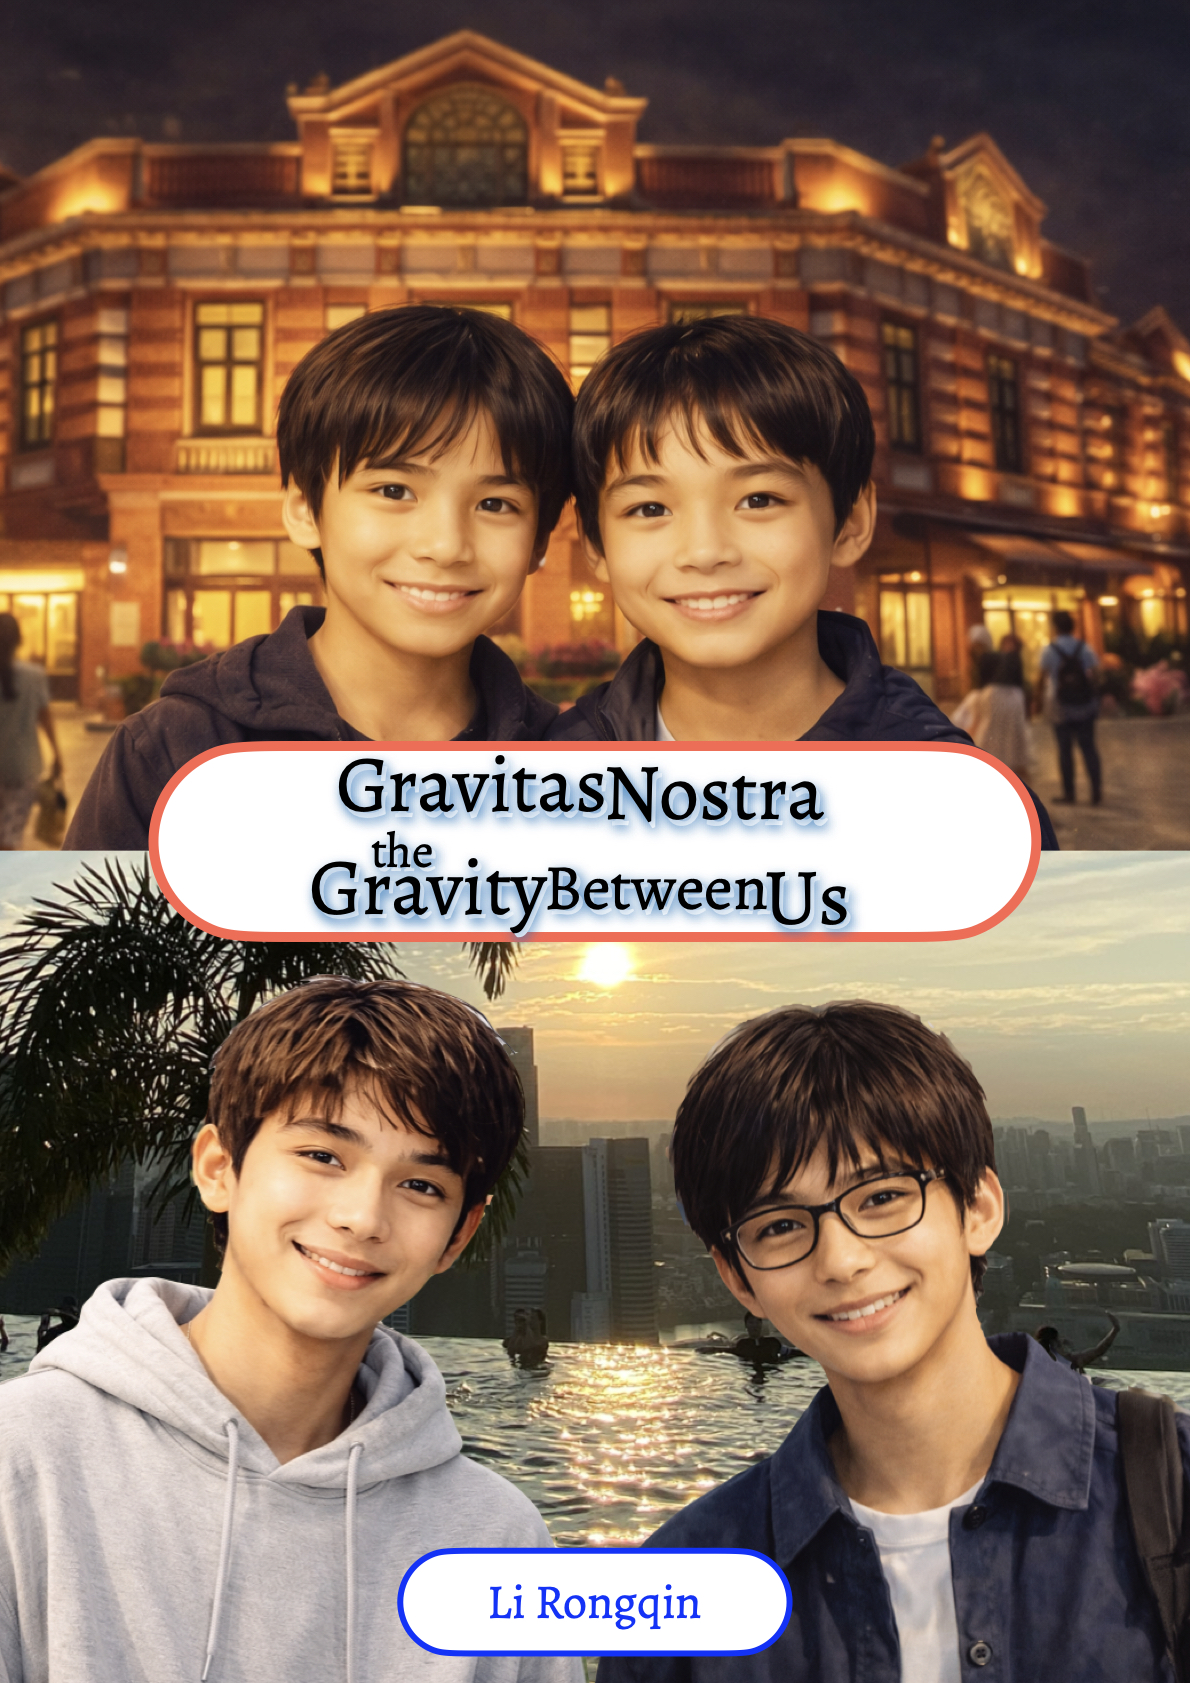
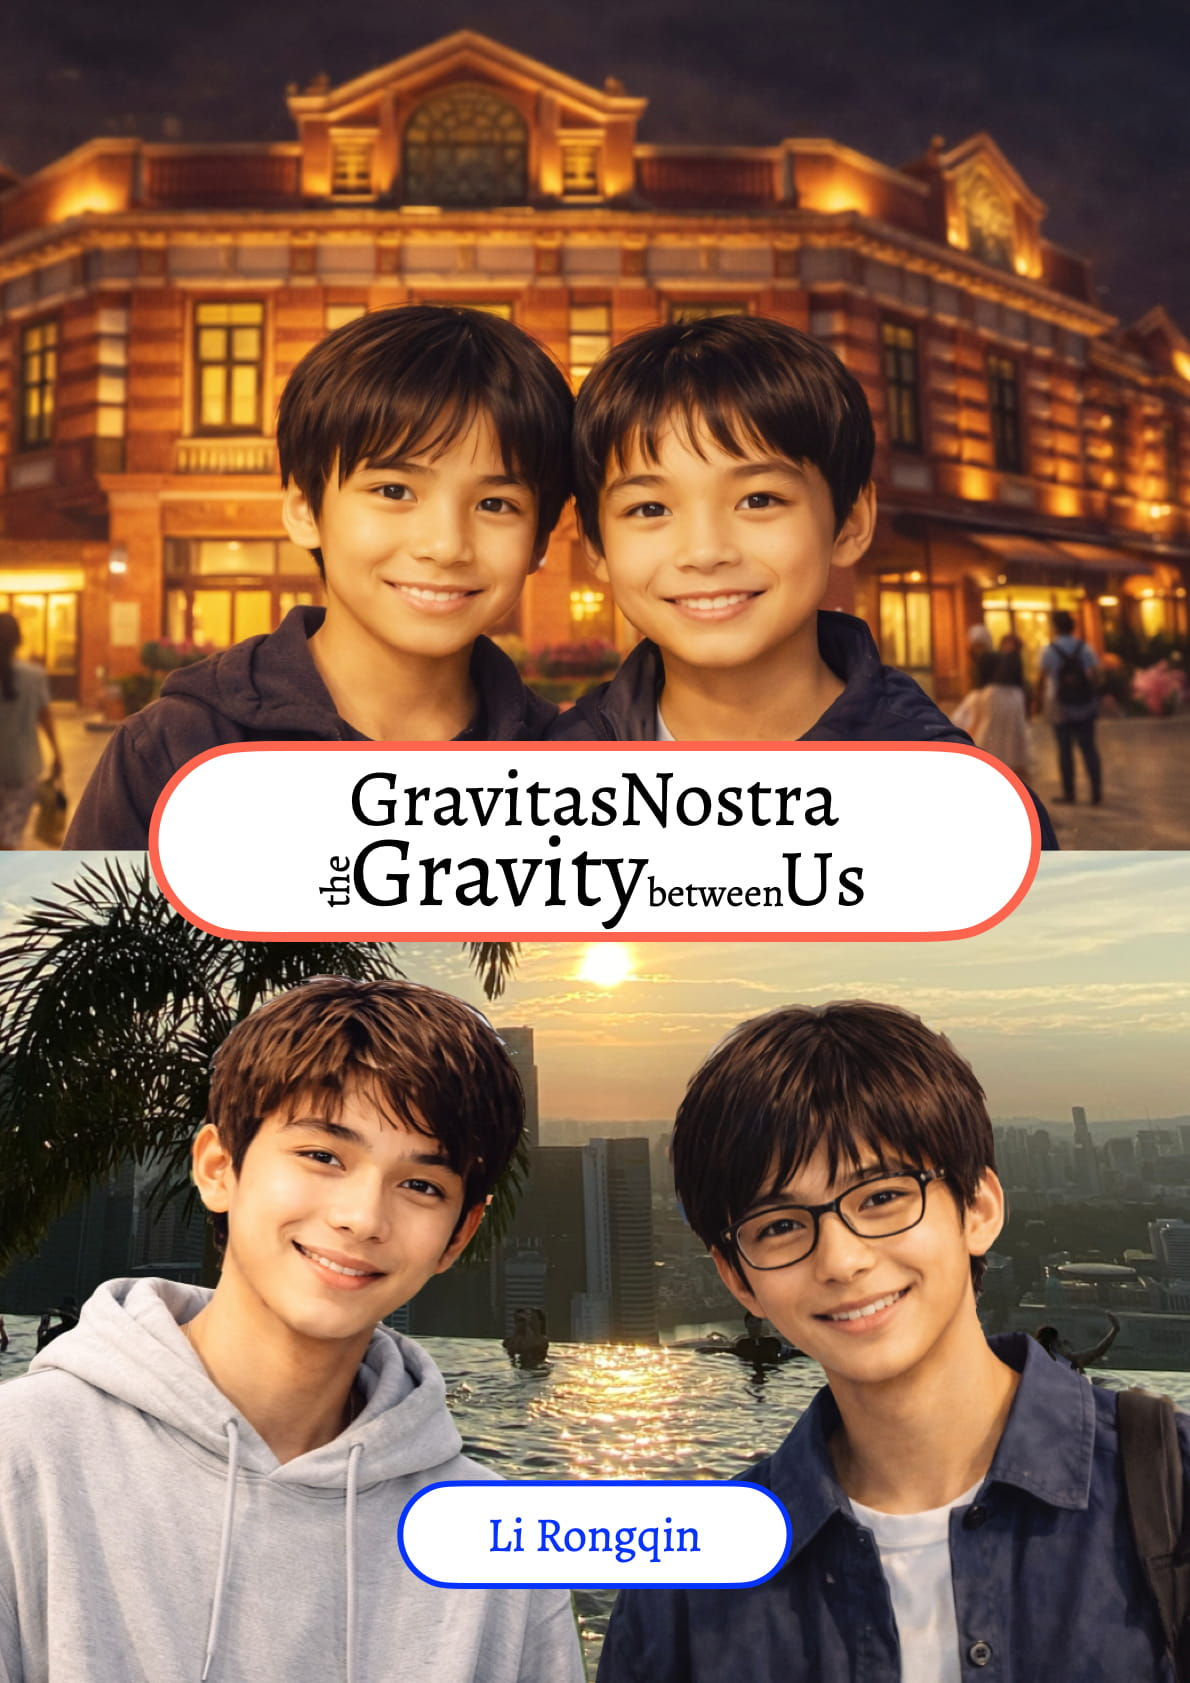
chapters update

diff --git a/chapters/gravitas-nostra-th/chapter-28.md b/chapters/gravitas-nostra-th/chapter-28.md
@@ -1,5 +1,9 @@
 ## 「 28. Research, Rivalry, and Regret 」
 
+### CHAPTER TWENTY-EIGHT
+
+#### Research, Rivalry, and Regret
+
 กันต์:
 
 “Ma kasih, pak. (ขอบใจมาก)” เฮียเอ่ยขอบคุณอาดี้ที่วิ่งไปที่ตู้ขายน้ำนอกห้องนั่งเล่นรวมของหอซื้อชามะนาวมาให้พวกผม ส่วนผมที่ยังจำภาษาอินโดนีเซียไม่ได้ ก็ได้แต่เอ่ยขอบคุณเป็นภาษาอังกฤษธรรมดาไป เฮียผมนี่เก่งนะ ถึงแม้ว่าจะเป็นซึมเศร้า แต่ว่าเขาก็ปรับตัวอะไรหลายๆ อย่างได้ไว ถึงแม้ว่าเขาจะไม่ได้เรียนภาษาต่างๆ อย่างเป็นกิจจะลักษณะ ไม่ได้สื่อสารรู้เรื่องอะไร แต่อย่างน้อย เขาก็จำศัพท์สำคัญๆ อย่างสวัสดี ขอบคุณ ขอโทษ และลาก่อนได้ในหลายๆ ภาษา จะมีก็ญี่ปุ่นที่พูดได้ดีเพราะชอบอนิเมะมาตั้งแต่เด็ก และเยอรมัน ที่เคยใช้พูดกับเจน

diff --git a/chapters/gravitas-nostra-th/chapter-30.md b/chapters/gravitas-nostra-th/chapter-30.md
@@ -1,5 +1,9 @@
 ## 「 30. Search, Search, and Search 」
 
+### CHAPTER THIRTY
+
+#### Search, Search, and Search
+
 ชุน:
 
 ดีนเริ่มมูฟออนได้ ตอนนี้ ครอบครัวที่เขาเหลือก็แทบไม่มีใครอยากคุยกับเขาแล้ว โดยเฉพาะครอบครัวฝั่งพ่อ เพราะเขาเป็นผู้ทรยศ หันหลังให้กับครอบครัว ซึ่งเขาก็ไม่ได้สนใจอะไรมากนัก เขาแค่รับส่วนแบ่งมรดกจากพ่อมา และเริ่มต้นทำงานหาเงินด้วยตัวเองด้วยการไปสมัครงานที่ร้านอาหารภายในมหาวิทยาลัย แถมยังมาขอไอเดียเปิดช่องในยูทูบบ่อยๆ อีกด้วย ท่าทางจะอยากดังแบบผมให้ได้สักวัน ส่วนแม่ของเขาก็บอกแค่ว่าจะจ่ายค่าเรียนให้จนจบ เพราะเงินค่าเรียนปริญญาตรีพ่อแม่เขาเตรียมให้ตั้งแต่ต้นอยู่แล้ว

diff --git a/chapters/gravitas-nostra-th/chapter-26.md b/chapters/gravitas-nostra-th/chapter-26.md
@@ -1,5 +1,9 @@
 ## 「 26. Denial, Discovery, and Desire 」
 
+### CHAPTER TWENTY-SIX
+
+#### Denial, Discovery, and Desire
+
 โฮเซ่:
 
 ผมกับเรย์ก็ได้แต่มองหน้ากัน ทำตาปริบๆ เมื่อชุนรีบคว้ากระเป๋าแล้วตรงดิ่งไปหาน้องชายของมันทันที เพราะเมื่อครู่นี้ เขาได้รับข้อความจากกันต์ว่าเจอร์รี่ไปตวาดใส่กันต์ในคณะ และเคฟก็อยู่ด้วย ที่แน่ๆ ก็คือเจย์น่าจะจำได้ว่ากันต์เป็นคนขู่เขาที่ภูเก็ตเรื่องขโมยข้อสอบ และชุมชนนักศึกษาจีนที่ไม่ยอมเข้าเรียนในอิ๋งหั่วก็ดูท่าทางจะโดนกวาดล้าง มีเจ้าหน้าที่สมัครเข้าไป ปลอมตัวเป็นนักศึกษา และเก็บรายละเอียดออกมาทั้งหมดเพื่อทำการตรวจสอบและลงโทษนักศึกษาเหล่านั้นต่อไป  

diff --git a/chapters/gravitas-nostra-th/chapter-24.md b/chapters/gravitas-nostra-th/chapter-24.md
@@ -1,5 +1,9 @@
 ## 「 24. Proof, Paper, and Pride 」
 
+### CHAPTER TWENTY-FOUR
+
+#### Proof, Paper, and Pride
+
 เคฟ:
 
 หลังจากไลฟ์จบลงไม่กี่ชั่วโมง กระแสในโซเชียลก็แตกออกเป็นสองฝั่งอย่างชัดเจน ฝั่งหนึ่งคือแฟนคลับของชุนที่เริ่มขุดรากถอนโคนพฤติกรรมในอดีตของคู่หูเจเจมาประจาน จนชุนต้องรีบออกมาโพสต์ปรามว่า “หยุดบูลลี่ได้แล้ว ความจริงถูกเปิดเผยแล้ว หน้าที่ที่เหลือเป็นของกฎหมายและมหาวิทยาลัย ไม่ใช่ความสะใจของพวกคุณ” ซึ่งนั่นทำให้สถานการณ์ฝั่งเขาเบาบางลง

diff --git a/chapters/gravitas-nostra-th/chapter-29.md b/chapters/gravitas-nostra-th/chapter-29.md
@@ -1,5 +1,9 @@
 ## 「 29. Cameras, Captivity, and Collapse 」
 
+### CHAPTER TWENTY-NINE
+
+#### Cameras, Captivity, and Collapse
+
 เคฟ:
 
 ผมเจอเจนมาสามครั้งที่นี่ ก็เพิ่งรู้เมื่อคืนนี้เองว่าเจนเรียนอยู่ที่คอลลินส์ ซึ่งก็คือตึกฝั่งตรงข้ามของตึกคณะของผมนั่นเอง แต่ตึกคณะบริหารธุรกิจของชุนจะอยู่ห่างไปอีกเล็กน้อยฝั่งตะวันตก มีตึกของคณะวิศวกรรมศาสตร์แทรก เวลาชุนมาหาผมถึงต้องใช้เวลานานกว่า แต่ก็ไม่รู้ทำไม อยู่ใกล้ขนาดนี้ ผมถึงไม่ค่อยได้เจอกับเจนเลย

diff --git a/chapters/gravitas-nostra-th/chapter-12.md b/chapters/gravitas-nostra-th/chapter-12.md
@@ -1,5 +1,10 @@
-## 「 12. Dead Diary, Dear Departed 」
-### บันทึกของคนตาย กับลมหายใจที่เหลืออยู่
+## 「 12. His Dead Diary 」
+
+### CHAPTER TWELVE
+
+#### His Dead Diary
+
+> บันทึกของคนตาย กับลมหายใจที่เหลืออยู่
 
 ⚠ คำเตือน: ตอนนี้มีเนื้อหาเกี่ยวกับ **การฆ่าตัวตาย**, การเขียนด่าทอวัฒนธรรม ชุดพฤติกรรม ไม่ใช่เป็นการเหยียดเชื้อชาติ/วัฒนธรรม แต่เป็นการกรีดร้องใส่ค่านิยมที่สร้างความทุกข์ทรมานให้กับลูกหลานของคนในวัฒนธรรมเหล่านั้นเอง
 

diff --git a/chapters/gravitas-nostra-th/chapter-25.md b/chapters/gravitas-nostra-th/chapter-25.md
@@ -1,4 +1,8 @@
-## 「 25. The Curse, the Cage, and the Cause 」
+## 「 25. The Curse and the Cause 」
+
+### CHAPTER TWENTY-FIVE
+
+#### The Curse and the Cause
 
 ⚠ คำเตือน: ตอนนี้มีเนื้อหาเกี่ยวกับ **การฆ่าตัวตาย**, การตะโกนด่าทอวัฒนธรรม ชุดพฤติกรรม ไม่ใช่เป็นการเหยียดเชื้อชาติ/วัฒนธรรม แต่เป็นการกรีดร้องใส่ค่านิยมที่สร้างความทุกข์ทรมานให้กับลูกหลานของคนในวัฒนธรรมเหล่านั้นเอง
 

diff --git a/chapters/gravitas-nostra-th/chapter-19.md b/chapters/gravitas-nostra-th/chapter-19.md
@@ -1,5 +1,9 @@
 ## 「 19. Brotherhood and Belonging 」
 
+### CHAPTER NINETEEN
+
+#### Brotherhood and Belonging
+
 ชุน:
 
 ผมยังคงจำได้รางๆ วันนั้นเหมือนพวกเราจะยังไม่ได้เข้าอนุบาลเลยด้วยซ้ำ พวกเราพากันไปฉลองวันเกิดเคฟที่ร้านอาหารที่ไหนก็ไม่รู้ แล้วก็ตามประสาคนแก่ ปู่ของเคฟที่บินมาจากกรุงเทพมาเยี่ยมหลาน ก็ได้สั่งบะหมี่อายุยืนมาให้หลานรัก

diff --git a/chapters/gravitas-nostra-th/chapter-20-special.md b/chapters/gravitas-nostra-th/chapter-20-special.md
@@ -1,4 +1,9 @@
 ## 「 Special Chapter 2. The Oppa’s Offer 」
+
+### SPECIAL CHAPTER TWO
+
+#### The Oppa’s Offer
+
 เจน:
 เพราะทางบริษัทของแม่จัดการเรื่องที่อยู่ให้ แต่ดันไม่เรียบร้อย ฉันเลยต้องมาอยู่ที่โรงแรมกับแม่เป็นการชั่วคราว แต่ว่าปัญหาคือ อยู่ดีๆ ทางสิงคโปร์ก็มีปัญหา และเขาต้องการให้แม่ไปคุมงานที่นู่น...
 ‘ผู้จัดการคนเก่าฆ่าตัวตาย?’

diff --git a/chapters/gravitas-nostra-th/chapter-20.md b/chapters/gravitas-nostra-th/chapter-20.md
@@ -1,5 +1,9 @@
 ## 「 20. Past, Present, and Pain 」
 
+### CHAPTER TWENTY
+
+#### Past, Present, and Pain
+
 เคฟ:
 
 เดือนสุดท้ายของปีมาถึงอีกแล้ว และนั่นก็หมายความว่า ผมเหลือสอบปลายภาคอีกแค่สองวิชา แล้วก็จะปิดเทอม ความรู้สึกตื่นเต้นที่ชุนจะพาไปเที่ยวนั้นไม่มี แต่ความรู้สึกกดดันที่จะต้องทำข้อสอบ ยังคงมีอยู่แน่นเต็มอก

diff --git a/chapters/gravitas-nostra-th/chapter-31.md b/chapters/gravitas-nostra-th/chapter-31.md
@@ -1,5 +1,9 @@
 ## 「 31. The Final Problem 」
 
+### CHAPTER THIRTY-ONE
+
+#### The Final Problem
+
 ⚠ คำเตือน: ตอนนี้มีเนื้อหาเกี่ยวกับ ความรุนแรง (การทำร้ายร่างกาย, การวางแผนฆาตกรรม), การเหยียดเชื้อชาติ, แนวความคิดเรื่องการมองผู้อื่นเป็นทาส
 
 เจย์:

diff --git a/chapters/gravitas-nostra-th/chapter-15.md b/chapters/gravitas-nostra-th/chapter-15.md
@@ -1,5 +1,9 @@
 ## 「 15. We Are Not In Khlong Luang Anymore 」
 
+### CHAPTER FIFTEEN
+
+#### We Are Not In Khlong Luang Anymore
+
 ⚠ คำเตือน: ตอนนี้มีเนื้อหาเกี่ยวกับ **ความคิดฆ่าตัวตาย**, **การใช้ศาสนาในการกดขี่ข่มเหงผู้อื่น**
 
 ตั้ม:
